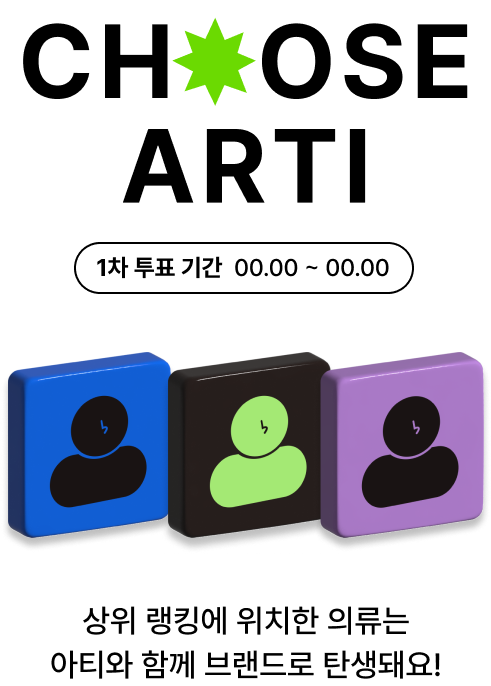
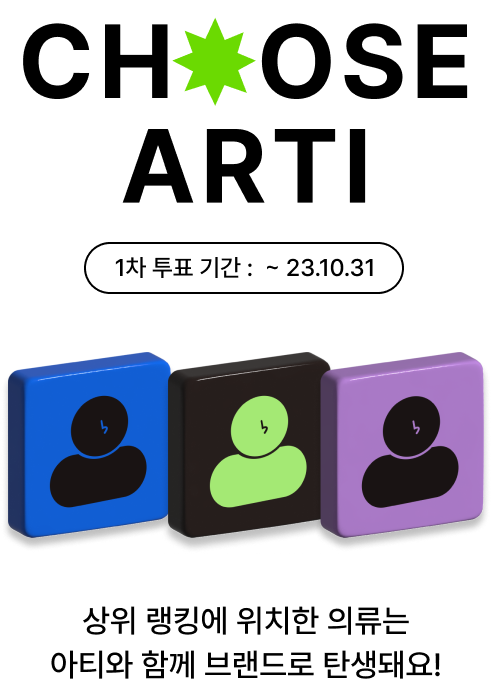
[FIX] 배너 변경

Changed region(s): [[0.1527, 0.3367, 0.8554, 0.4286]]

diff --git a/src/components/ranking/RankingSection.tsx b/src/components/ranking/RankingSection.tsx
@@ -125,7 +125,7 @@ const RankingSection = () => {
 						</div>
 					</div>
 
-					<div>1차 투표 기간 : 00.00 ~ 00.00</div>
+					<div>1차 투표 기간 : ~ 23.10.31</div>
 				</div>
 			</div>
 			<div css={rankingBtnWrapper}>
